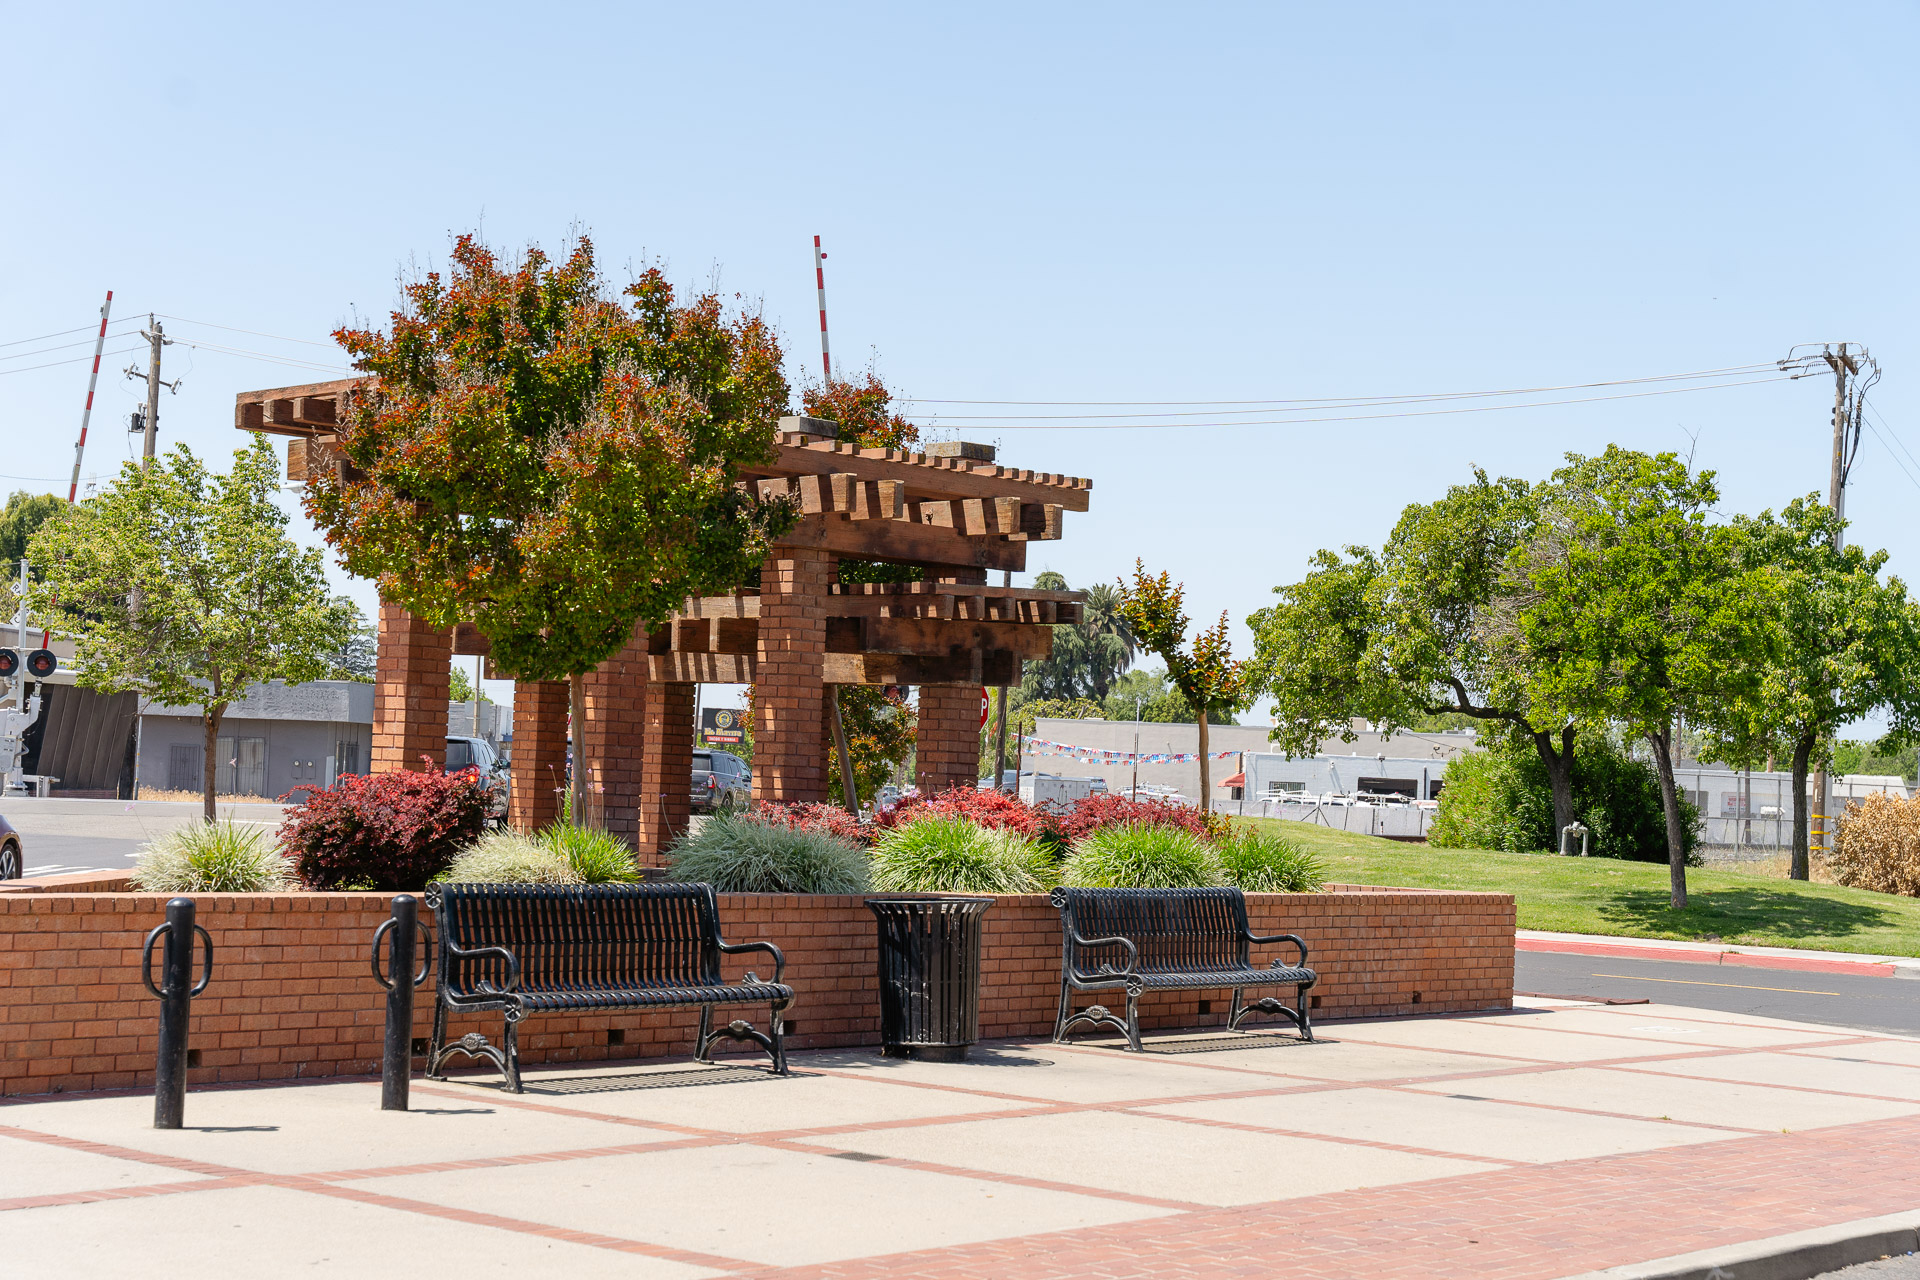
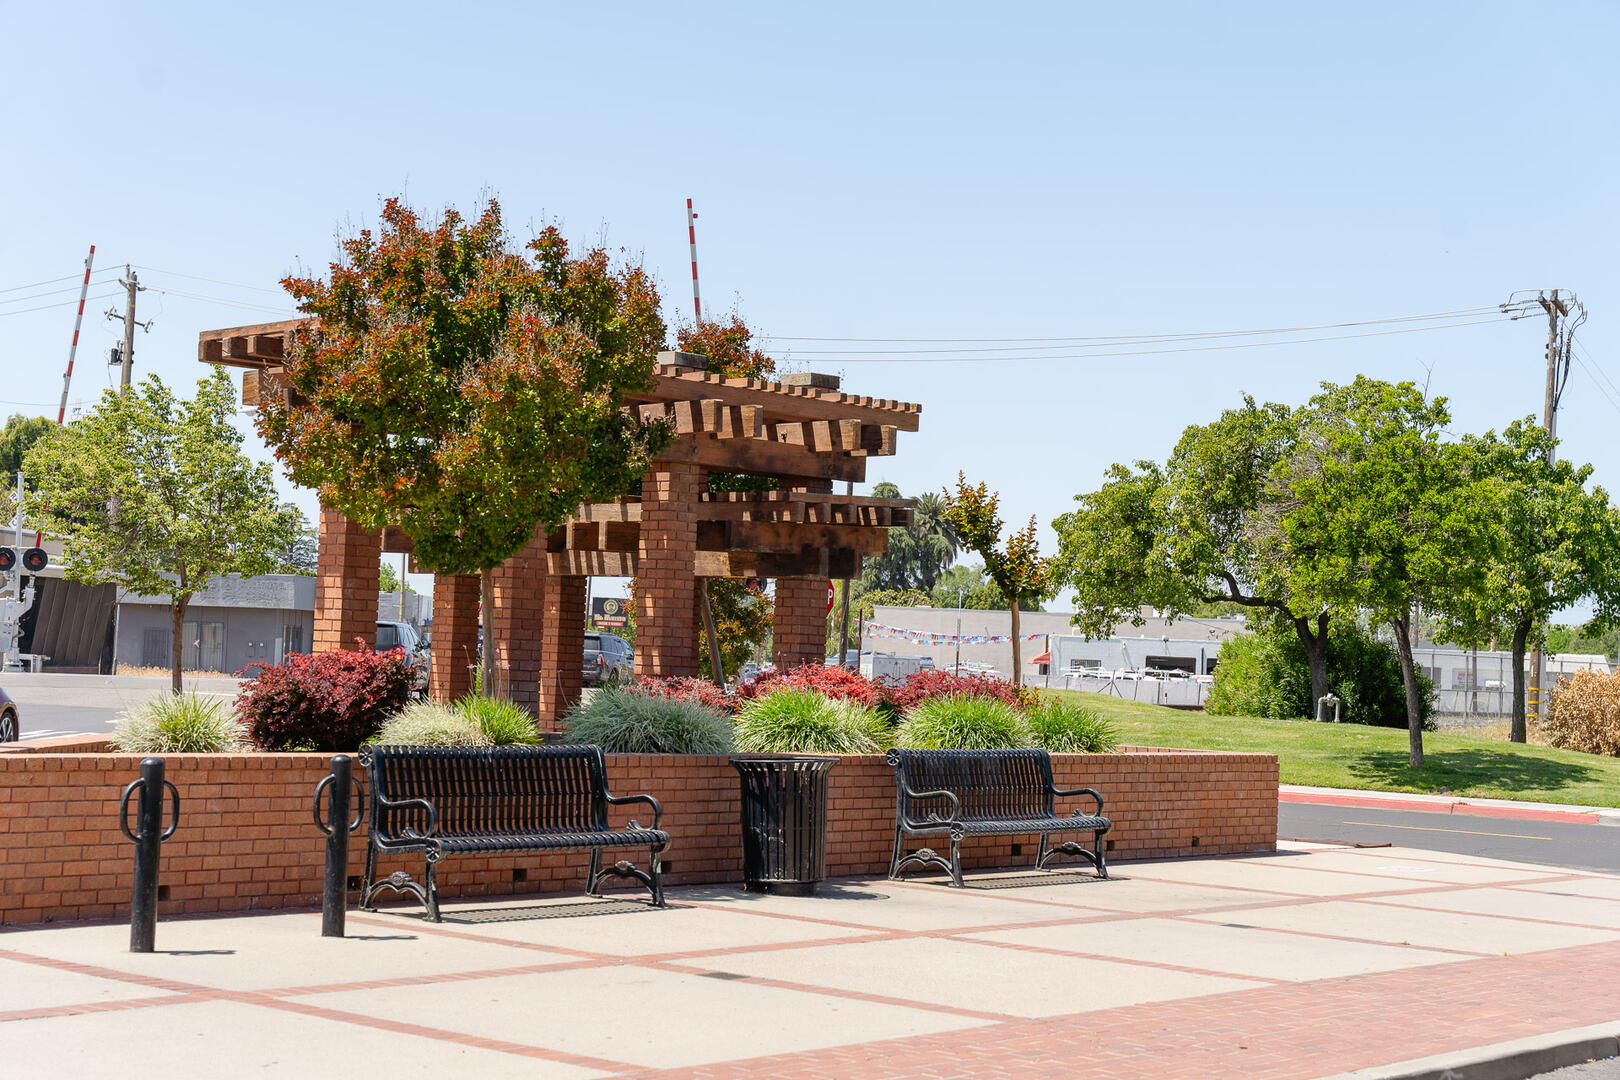
reduce image size

diff --git a/index.html b/index.html
@@ -4,6 +4,11 @@
     <meta charset="UTF-8">
     <meta name="viewport" content="width=device-width, initial-scale=1.0">
     <title>Discover Downtown Manteca District</title>
+    
+    <!-- Preload critical images for better performance -->
+    <link rel="preload" as="image" href="img/carousel-1.jpg">
+    <link rel="preload" as="image" href="img/manteca-logo.webp">
+    
     <link href="https://fonts.googleapis.com/css2?family=Roboto+Slab:wght@300;400;600;700&family=Montserrat:wght@300;400;500;600;700&display=swap" rel="stylesheet">
     <style>
         * {
@@ -195,6 +200,9 @@
             justify-content: center;
             opacity: 0;
             transition: opacity 0.8s ease-in-out;
+            will-change: opacity;
+            backface-visibility: hidden;
+            transform: translateZ(0);
         }
 
         .carousel-slide.active {
@@ -920,6 +928,23 @@
             opacity: 0.95;
         }
 
+        /* Performance optimizations */
+        .lazy-load {
+            background: linear-gradient(90deg, #f0f0f0 25%, #e0e0e0 50%, #f0f0f0 75%);
+            background-size: 200% 100%;
+            animation: loading 1.5s infinite;
+        }
+
+        @keyframes loading {
+            0% { background-position: 200% 0; }
+            100% { background-position: -200% 0; }
+        }
+
+        /* Optimize heavy elements */
+        .carousel-container, .event-popup-overlay {
+            will-change: transform;
+        }
+
         /* Mobile responsiveness for popup */
         @media (max-width: 768px) {
             .event-popup-content {
@@ -959,7 +984,7 @@
         <div class="event-popup-content">
             <button class="event-popup-close" onclick="closeEventPopup()">&times;</button>
             <a href="https://www.eventbrite.com/e/beer-wine-stroll-tickets-1588981048089?aff=oddtdtcreator" target="_blank" rel="noopener noreferrer" class="event-link">
-                <img src="img/beerwine.jpeg" alt="Beer & Wine Stroll - October 24, 2025 - Click to register on Eventbrite" class="event-popup-image">
+                <img data-src="img/beerwine.jpeg" alt="Beer & Wine Stroll - October 24, 2025 - Click to register on Eventbrite" class="event-popup-image lazy-load">
             </a>
             <p style="text-align: center; margin-top: 15px; color: #0a2b30; font-weight: 600;">
                 Click the image above to register for tickets on Eventbrite!
@@ -970,7 +995,10 @@
     <header>
         <nav class="container">
             <div class="logo-container">
-                <img src="img/manteca-logo.png" alt="Downtown Manteca District Logo" class="logo-img">
+                <picture>
+                    <source srcset="img/manteca-logo.webp" type="image/webp">
+                    <img src="img/manteca-logo.png" alt="Downtown Manteca District Logo" class="logo-img">
+                </picture>
             </div>
             <button class="hamburger" onclick="toggleMenu()">
                 <span></span>
@@ -992,35 +1020,35 @@
     <section>
         <div class="image-carousel">
             <div class="carousel-container">
-                <div class="carousel-slide active" style="background-image: url('img/carousel-1.jpg');">
+                <div class="carousel-slide active" style="background-image: url('img/carousel-1.jpg');" data-bg-loaded="true">
                     <div class="carousel-overlay"></div>
                     <div class="carousel-content">
                         <h2>Celebrating Our Local Arts & Culture</h2>
                         <p>Experience the vibrant creative spirit that defines Downtown Manteca</p>
                     </div>
                 </div>
-                <div class="carousel-slide" style="background-image: url('img/carousel-2.jpg');">
+                <div class="carousel-slide" data-bg="img/carousel-2.jpg">
                     <div class="carousel-overlay"></div>
                     <div class="carousel-content">
                         <h2>Historic Main Street Heritage</h2>
                         <p>Walk through history on our beautifully preserved Main Street</p>
                     </div>
                 </div>
-                <div class="carousel-slide" style="background-image: url('img/carousel-3.jpg');">
+                <div class="carousel-slide" data-bg="img/carousel-3.jpg">
                     <div class="carousel-overlay"></div>
                     <div class="carousel-content">
                         <h2>Community Events & Festivals</h2>
                         <p>Join us for year-round celebrations that bring our community together</p>
                     </div>
                 </div>
-                <div class="carousel-slide" style="background-image: url('img/carousel-4.jpg');">
+                <div class="carousel-slide" data-bg="img/carousel-4.jpg">
                     <div class="carousel-overlay"></div>
                     <div class="carousel-content">
                         <h2>Local Business & Shopping</h2>
                         <p>Support local entrepreneurs and discover unique finds in our shops</p>
                     </div>
                 </div>
-                <div class="carousel-slide" style="background-image: url('img/carousel-5.jpg');">
+                <div class="carousel-slide" data-bg="img/carousel-5.jpg">
                     <div class="carousel-overlay"></div>
                     <div class="carousel-content">
                         <h2>Dining & Culinary Excellence</h2>
@@ -1220,8 +1248,23 @@
             slides.forEach(slide => slide.classList.remove('active'));
             dots.forEach(dot => dot.classList.remove('active'));
             
+            // Lazy load background image if not already loaded
+            const currentSlide = slides[index];
+            if (currentSlide.dataset.bg && !currentSlide.dataset.bgLoaded) {
+                currentSlide.style.backgroundImage = `url('${currentSlide.dataset.bg}')`;
+                currentSlide.dataset.bgLoaded = 'true';
+            }
+            
+            // Preload next slide image for smooth transitions
+            const nextIndex = (index + 1) % totalSlides;
+            const nextSlide = slides[nextIndex];
+            if (nextSlide.dataset.bg && !nextSlide.dataset.bgLoaded) {
+                nextSlide.style.backgroundImage = `url('${nextSlide.dataset.bg}')`;
+                nextSlide.dataset.bgLoaded = 'true';
+            }
+            
             // Add active class to current slide and dot
-            slides[index].classList.add('active');
+            currentSlide.classList.add('active');
             dots[index].classList.add('active');
         }
 
@@ -1282,6 +1325,14 @@
         // Event Popup Functionality
         function showEventPopup() {
             const popup = document.getElementById('eventPopup');
+            const lazyImage = popup.querySelector('.lazy-load');
+            
+            // Load the popup image when showing popup
+            if (lazyImage && lazyImage.dataset.src) {
+                lazyImage.src = lazyImage.dataset.src;
+                lazyImage.classList.remove('lazy-load');
+            }
+            
             popup.classList.add('active');
             document.body.style.overflow = 'hidden'; // Prevent background scrolling
         }
